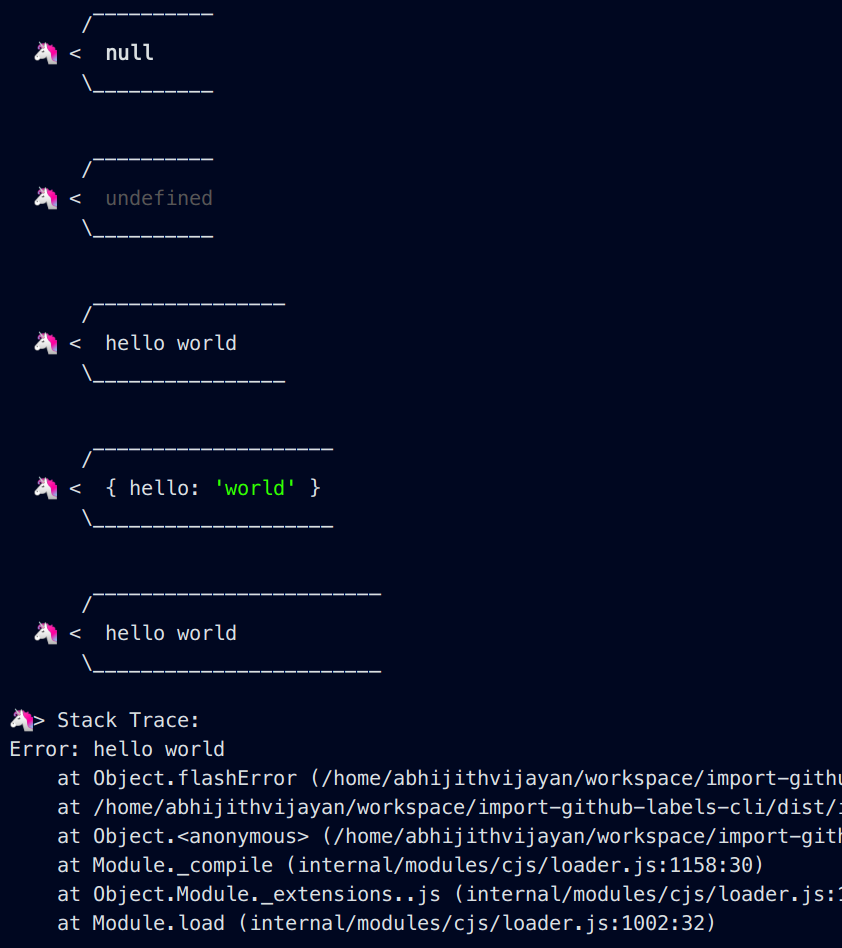
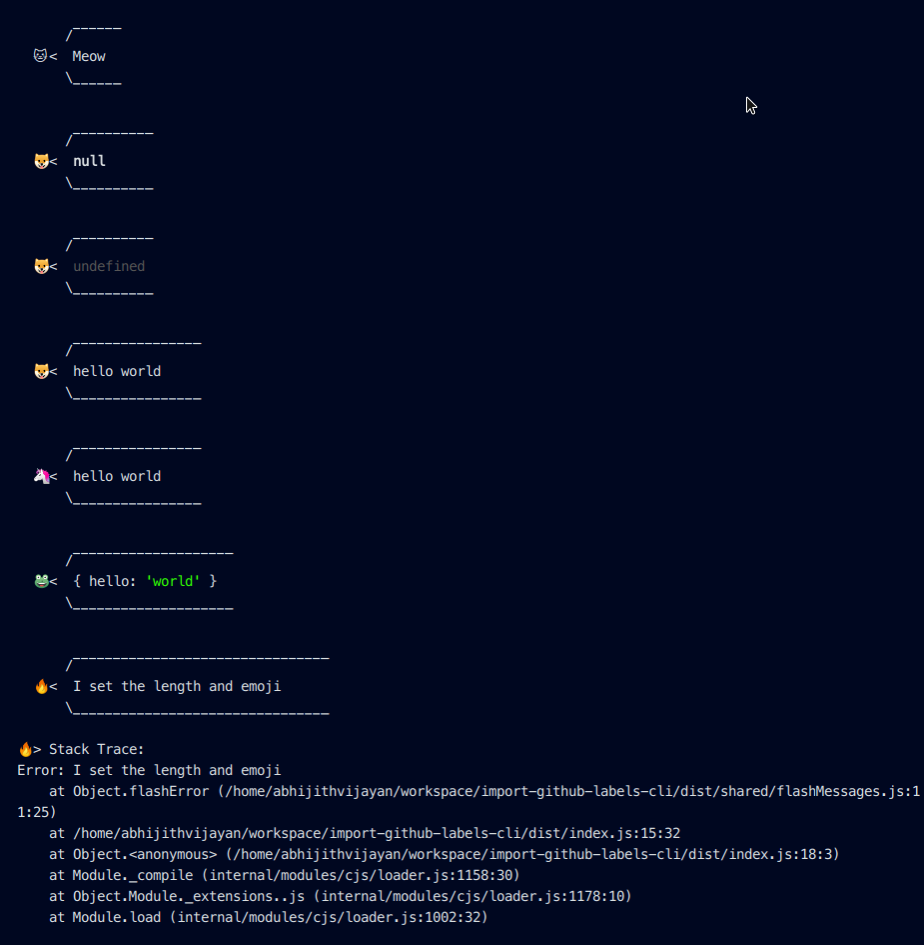
fix: update screenshots

diff --git a/readme.md b/readme.md
@@ -91,13 +91,14 @@ require('emoji-log');
 import 'emoji-log';
 
 # Logging
+> console.emoji();
 > console.emoji(null);
 > console.emoji(undefined);
 > console.emoji('hello world');
-> console.emoji({hello: 'world'});
-> console.emoji(new Error('hello world'));
-> console.emoji(new TypeError('hello world'));
-> console.emoji(chalk.bold.red(`✖ hello world`), 35); # with chalk & line limiting
+> console.emoji('🦄', 'hello world'); # with custom emoji & data
+> console.emoji('🐸', {hello: 'world'}); # maybe objects
+> console.emoji('🔥', new Error('I set the length and emoji'), 15); # with custom emoji, data & line limit length
+
 ```
 
 ***Browser***
